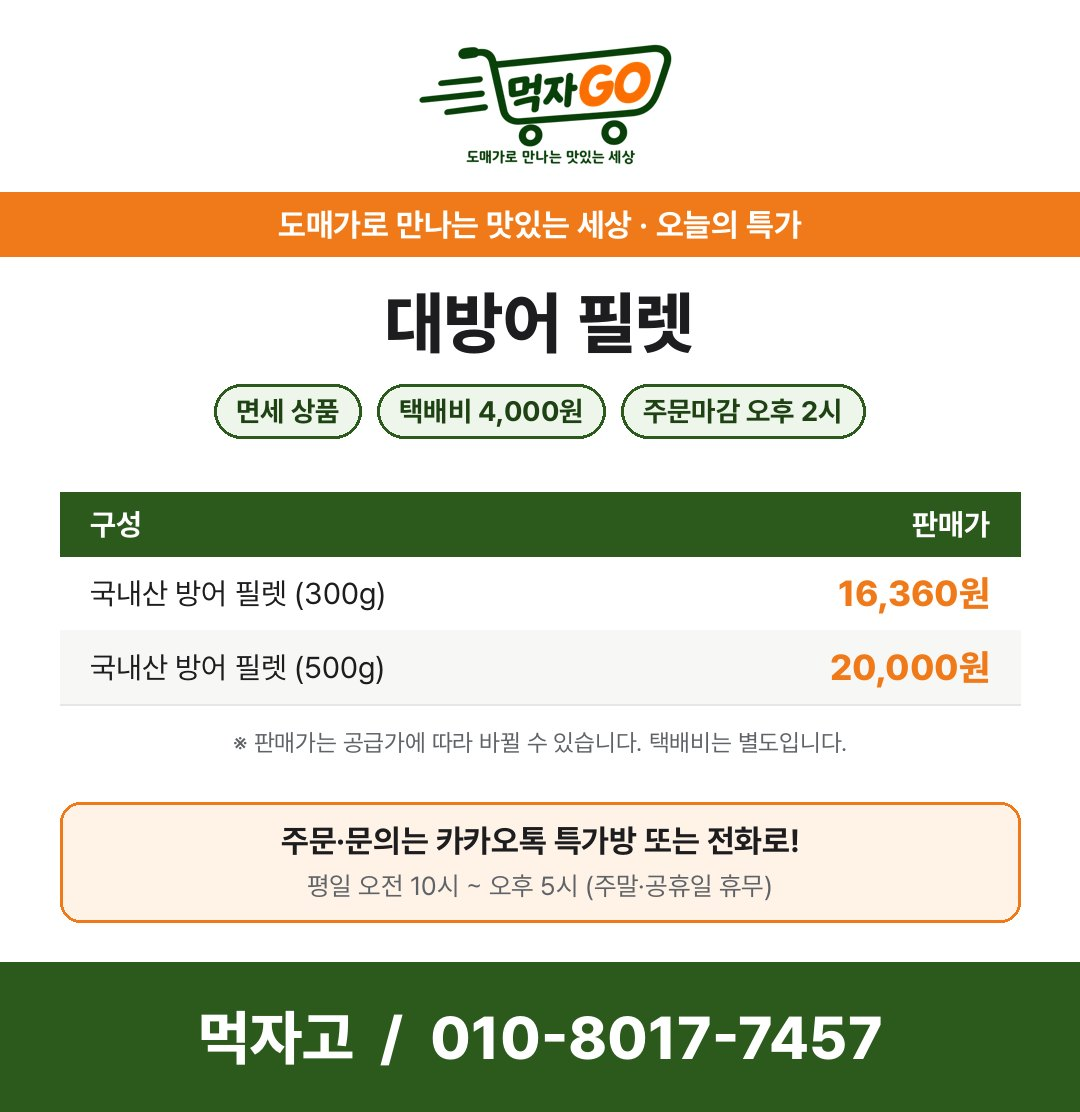
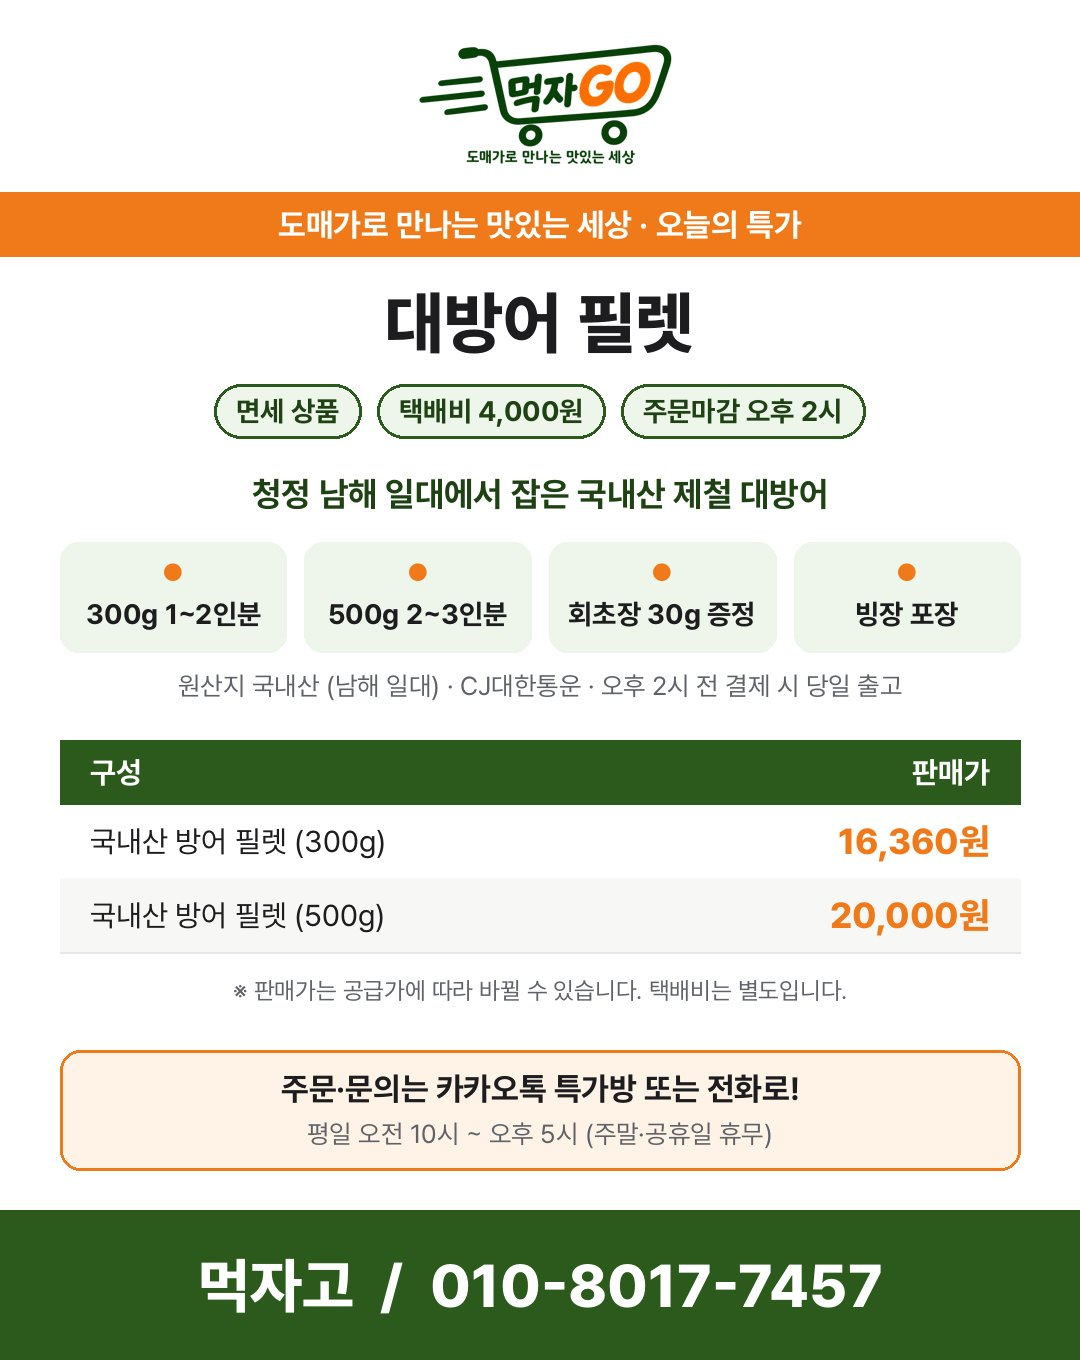
하모샤브샤브·대방어 필렛 사진·상세, 사진 도구가 하위 폴더(썸네일/상세) 규칙을 읽음
Claude-Session: https://claude.ai/code/session_01UCupzPUrEgZbBPue5zx9mb

diff --git a/js/products.js b/js/products.js
@@ -1,6 +1,6 @@
 /* 자동 생성 파일 — 손으로 고치지 마세요 (다시 만들면 지워집니다).
  * 원본: 늘푸른우리 제품 공급표_잇플로우.xlsx
- * 만든 때: 2026-11-26 04:16
+ * 만든 때: 2026-11-26 04:21
  * 다시 만들기: python tools/import_excel.py
  * 문구·후기·공지·분류는 js/content.js 에서 고칩니다. */
 window.PRODUCTS = [
@@ -486,9 +486,23 @@ window.PRODUCTS = [
   "price": 16360,
   "ship": 4000,
   "emoji": "🐟",
-  "images": [],
+  "images": [
+   "images/products/p17/1.jpg",
+   "images/products/p17/2.jpg"
+  ],
   "top": "images/products/p17/top.jpg",
-  "detail": [],
+  "detail": [
+   "images/products/p17/detail-1.jpg",
+   "images/products/p17/detail-2.jpg",
+   "images/products/p17/detail-3.jpg",
+   "images/products/p17/detail-4.jpg",
+   "images/products/p17/detail-5.jpg",
+   "images/products/p17/detail-6.jpg",
+   "images/products/p17/detail-7.jpg",
+   "images/products/p17/detail-8.jpg",
+   "images/products/p17/detail-9.jpg",
+   "images/products/p17/detail-10.jpg"
+  ],
   "options": [
    {
     "name": "국내산 방어 필렛",
@@ -504,7 +518,18 @@ window.PRODUCTS = [
     "ship": 4000,
     "tax": "면세"
    }
-  ]
+  ],
+  "info": {
+   "sub": "청정 남해 일대에서 잡은 국내산 제철 대방어",
+   "points": [
+    "300g 1~2인분",
+    "500g 2~3인분",
+    "회초장 30g 증정",
+    "빙장 포장"
+   ],
+   "origin": "국내산 (남해 일대)",
+   "courier": "CJ대한통운 · 오후 2시 전 결제 시 당일 출고"
+  }
  },
  {
   "id": 18,
@@ -516,9 +541,24 @@ window.PRODUCTS = [
   "price": 14710,
   "ship": 4000,
   "emoji": "🐟",
-  "images": [],
+  "images": [
+   "images/products/p18/1.jpg",
+   "images/products/p18/2.jpg",
+   "images/products/p18/3.jpg",
+   "images/products/p18/4.jpg",
+   "images/products/p18/5.jpg"
+  ],
   "top": "images/products/p18/top.jpg",
-  "detail": [],
+  "detail": [
+   "images/products/p18/detail-1.jpg",
+   "images/products/p18/detail-2.jpg",
+   "images/products/p18/detail-3.jpg",
+   "images/products/p18/detail-4.jpg",
+   "images/products/p18/detail-5.jpg",
+   "images/products/p18/detail-6.jpg",
+   "images/products/p18/detail-7.jpg",
+   "images/products/p18/detail-8.jpg"
+  ],
   "options": [
    {
     "name": "하모 샤브샤브세트",
@@ -527,7 +567,18 @@ window.PRODUCTS = [
     "ship": 4000,
     "tax": "면세"
    }
-  ]
+  ],
+  "info": {
+   "sub": "여수 국내산 하모(갯장어) 샤브샤브 세트",
+   "points": [
+    "손질 하모 300g",
+    "스틱육수 1봉",
+    "약재 1봉",
+    "참소스 2개"
+   ],
+   "origin": "국내산 (여수)",
+   "courier": "CJ대한통운 · 5개까지 합배송"
+  }
  },
  {
   "id": 20,

diff --git a/tools/import_photos.py b/tools/import_photos.py
@@ -45,32 +45,72 @@ def _tall(f: Path) -> bool:
     return h > w * 4
 
 
-def classify(files):
-    main, detail, kakao, skip = [], [], [], []
+NUMBERED = re.compile(r"\d+(\s*\(\d+\))?")   # 7.jpg, 윈도 복사본 7 (1).jpg
+THUMB_DIR = ("썸네일", "대표")
+DETAIL_DIR = ("상세",)
+
+
+def _num(stem: str) -> float:
+    n = re.findall(r"\d+", stem)
+    return int(n[0]) + (int(n[1]) / 100 if len(n) > 1 else 0)
+
+
+def _piece_key(f: Path):
+    """상세 조각 순서: 이름 속 마지막 번호순, 번호 없는 그림은 맨 뒤."""
+    n = re.findall(r"\d+", f.stem.replace("860x1100", ""))
+    return (0, int(n[-1])) if n else (1, f.stem)
+
+
+def classify(files, root: Path | None = None):
+    """폴더 규칙 (하위 폴더까지 본다):
+      - 이름에 「썸네일」·「대표」가 든 폴더  -> 그 안 그림 = 대표사진
+      - 이름에 「상세」가 든 폴더            -> 그 안 그림 = 상세 조각 (번호순, 번호 없는 그림은 뒤)
+      - 썸네일 폴더가 따로 있으면, 맨 위 폴더의 숫자 그림은 상세 조각으로 본다 (예: 하모 1~8.png)
+      - 그 밖: 숫자 그림 = 대표사진, 아주 긴 그림 = 상세, 카톡·포스터 = 올리지 않음
+    """
+    main, detail, pieces, kakao, skip = [], [], [], [], []
+    dirs = lambda f: [x for x in (f.parent.relative_to(root).parts if root else ())]
+    has_thumb = any(any(k in d for k in THUMB_DIR for d in dirs(f)) for f in files)
     for f in files:
-        s = f.stem
+        s, ds = f.stem, dirs(f)
         if re.match(r"(?i)kakaotalk|카톡", s):
             kakao.append(f)
+        elif any(k in d for k in DETAIL_DIR for d in ds):
+            pieces.append(f)
+        elif any(k in d for k in THUMB_DIR for d in ds):
+            main.append((-1 if s.startswith("대표") else (_num(s) if NUMBERED.fullmatch(s) else 999), f))
         elif _tall(f):  # 이름에 「상세」가 있어도 포스터(세로 2배쯤)는 상세가 아님
             detail.append(f)
-        elif s.startswith("대표"):
-            main.insert(0, (-1, f))
-        elif re.fullmatch(r"\d+(\s*\(\d+\))?", s):  # 7.jpg, 윈도 복사본 7 (1).jpg 도 숫자 사진
-            n = re.findall(r"\d+", s)
-            main.append((int(n[0]) + (int(n[1]) / 100 if len(n) > 1 else 0), f))
+        elif ds:  # 규칙 밖 하위 폴더의 그림 (예: 카톡 사진 모음) -> 올리지 않음
+            kakao.append(f)
+        elif s.startswith("대표") and not has_thumb:
+            main.append((-1, f))
+        elif NUMBERED.fullmatch(s):
+            (pieces.append(f) if has_thumb else main.append((_num(s), f)))
         else:
             kakao.append(f)  # 숫자·상세가 아닌 포스터·광고 그림 = 홍보이미지로 보고 올리지 않음
     main.sort(key=lambda x: x[0])
     nat = lambda f: [int(x) if x.isdigit() else x for x in re.split(r"(\d+)", f.stem)]
-    return [f for _, f in main], sorted(detail, key=nat), kakao, skip
+    return [f for _, f in main], sorted(detail, key=nat) + sorted(pieces, key=_piece_key), kakao, skip
+
+
+def unwrap(src: Path) -> Path:
+    """압축을 풀면 폴더 하나로 감싸져 있는 경우가 많다 -> 그 안으로 들어간다."""
+    while True:
+        kids = [k for k in src.iterdir() if not k.name.startswith(".")]
+        if len(kids) == 1 and kids[0].is_dir():
+            src = kids[0]
+        else:
+            return src
 
 
 def main():
     if len(sys.argv) < 3:
         sys.exit(__doc__)
     src, pid = Path(sys.argv[1]), int(sys.argv[2])
-    files = [f for f in src.iterdir() if f.is_file() and f.suffix.lower() in EXT]
-    main_f, detail_f, kakao, skip = classify(files)
+    src = unwrap(src)
+    files = [f for f in src.rglob("*") if f.is_file() and f.suffix.lower() in EXT]
+    main_f, detail_f, kakao, skip = classify(files, src)
     out = ROOT / "images" / "products" / f"p{pid:02d}"
     out.mkdir(parents=True, exist_ok=True)
     for old in out.iterdir():

diff --git a/07_BOOK/RAW_HISTORY.md b/07_BOOK/RAW_HISTORY.md
@@ -8,18 +8,18 @@
 >
 > 다듬은 원고는 `BOOK_MANUSCRIPT.md` 로 간다. **RAW -> EDIT -> BOOK**
 
-마지막으로 뽑은 때: 2026-11-26 04:17
+마지막으로 뽑은 때: 2026-11-26 04:21
 
 ---
 
 ## 숫자 (실제 기록에서 셈)
 
-- 개발 기록: **5**
+- 개발 기록: **6**
 - 오류 기록: **2**
-- 시험 기록: **15**
+- 시험 기록: **16**
 - 결정 기록: **8**
 - 파이썬 파일: **6**
-- 줄 수: **1,398**
+- 줄 수: **1,438**
 
 ---
 
@@ -214,6 +214,44 @@ DECISION #007, #008
 ---
 
 
+## 제006회 · 2026-11-26 04:21
+
+### 무엇이 문제였나
+하모: 맨 위 1~8.png(860×1100 상세 조각) + 하모샤브샤브썸네일/1~5 + 포스터 + 카톡 폴더. 방어: 대방어 상세페이지/(조각 9 + 맛있게 즐기기) + 대방어 썸네일/2,4
+
+### 사용자가 지시한 것
+제철 수산물 zip 2개 (하모샤브샤브, 국내산 방어필렛) — 이번엔 하위 폴더 구조
+
+### 분석
+기존 규칙(숫자=대표)이면 하모 상세 조각 8장이 대표사진으로 잘못 들어감. 압축이 폴더 하나로 감싸져 와서 맨 위 판단도 틀어짐(처음 시험에서 하모 조각 8장이 전부 제외됨 — 확인 후 고침)
+
+### 실제로 한 일
+import_photos.py: 하위 폴더 탐색, 썸네일/대표 폴더=대표, 상세 폴더=조각, 썸네일 폴더 있으면 맨 위 숫자=조각, 감싼 폴더 자동 진입. 하모(포스터)·방어(상세 조각) 사실을 product_info 에 옮김
+
+### 건드린 파일
+tools/import_photos.py, tools/product_info.json, images/products/p17,p18/*, README.md
+
+### 일어난 오류
+(없음)
+
+### 진범
+(없음)
+
+### 고친 방법
+(없음)
+
+### 어떻게 쟀나
+T016
+
+### 결과
+사진 있는 상품 13/51
+
+### 정한 것
+-
+
+---
+
+
 # 오류 역사
 
 > 오류 -> 원인 -> 고침 -> 재현 -> 회귀. **실패를 지우지 않는다.**
@@ -361,5 +399,6 @@ DECISION #007, #008
 | T013 | 2026-11-26 | 홍보이미지 미게시 | images/products 에 KakaoTalk·포스터 파일 있는지 + 민감자료 걸쇠 | 0개 | 0개, 걸쇠 10/10 OK | 통과 |
 | T014 | 2026-11-26 | p26 하프절단 간장게장 사진 | zip 3개 합쳐 import_photos → Playwright 390·1280 | 대표 12장(7 (1)·8 (1) 포함, 숫자순), 상세 1장 조각, 넘침 0 | 대표 12장 순서 1-6,7(1),8,8(1),9,11,12 / 상세 11조각 / sw=화면폭 / 깨진 그림 0 / 최대 파일 311KB (원본 14MB) | 통과 |
 | T015 | 2026-11-26 | 제철 수산물 3상품 + 기존 9상품 회귀 | import_photos 다시 돌려 장수 비교, Playwright 11·12·15 × 390·1280 | 기존 9상품 장수 그대로, 새 상품 넘침·깨짐 0 | 9상품 장수 동일. p11 대표12/상세11, p15 대표5/상세12(+top), p12 사진 0(자리만). 6화면 sw=폭, 깨짐 0 | 통과 |
+| T016 | 2026-11-26 | 하위 폴더 규칙 + 회귀 | 분류 미리보기 후 import, 앞선 11상품 다시 import 해 장수 비교, Playwright 17·18·11·25 × 390·1280 | 하모 대표5/상세8, 방어 대표2/상세10(맛있게 즐기기 맨 뒤), 앞선 11상품 장수 그대로 | 그대로 나옴. 8화면 sw=폭, 깨짐 0, 걸쇠 10/10 | 통과 |
 
 ---

diff --git a/04_LOG/DEVELOPMENT_LOG.md b/04_LOG/DEVELOPMENT_LOG.md
@@ -210,3 +210,35 @@ DECISION #007, #008
 참조기 대표사진 여부 확인, 나머지 40상품
 
 ==========================================================
+
+==========================================================
+[DEVELOPMENT RECORD #006]
+
+DATE: 2026-11-26
+TIME: 04:21
+
+[USER] 사용자 지시
+제철 수산물 zip 2개 (하모샤브샤브, 국내산 방어필렛) — 이번엔 하위 폴더 구조
+
+[CONTEXT] 그때 상황
+하모: 맨 위 1~8.png(860×1100 상세 조각) + 하모샤브샤브썸네일/1~5 + 포스터 + 카톡 폴더. 방어: 대방어 상세페이지/(조각 9 + 맛있게 즐기기) + 대방어 썸네일/2,4
+
+[ANALYSIS] 분석
+기존 규칙(숫자=대표)이면 하모 상세 조각 8장이 대표사진으로 잘못 들어감. 압축이 폴더 하나로 감싸져 와서 맨 위 판단도 틀어짐(처음 시험에서 하모 조각 8장이 전부 제외됨 — 확인 후 고침)
+
+[EXECUTION] 실제 한 일
+import_photos.py: 하위 폴더 탐색, 썸네일/대표 폴더=대표, 상세 폴더=조각, 썸네일 폴더 있으면 맨 위 숫자=조각, 감싼 폴더 자동 진입. 하모(포스터)·방어(상세 조각) 사실을 product_info 에 옮김
+
+[FILES] 건드린 파일
+tools/import_photos.py, tools/product_info.json, images/products/p17,p18/*, README.md
+
+[TEST] 어떻게 쟀나
+T016
+
+[RESULT] 결과
+사진 있는 상품 13/51
+
+[NEXT] 다음
+하모 상세 3번 조각에 「우리농축산의 하모 샤브샤브」 문구(전화번호 없음) — 둘지 사용자 확인
+
+==========================================================

diff --git a/04_LOG/TEST_LOG.md b/04_LOG/TEST_LOG.md
@@ -19,3 +19,4 @@
 | T013 | 2026-11-26 | 홍보이미지 미게시 | images/products 에 KakaoTalk·포스터 파일 있는지 + 민감자료 걸쇠 | 0개 | 0개, 걸쇠 10/10 OK | 통과 |
 | T014 | 2026-11-26 | p26 하프절단 간장게장 사진 | zip 3개 합쳐 import_photos → Playwright 390·1280 | 대표 12장(7 (1)·8 (1) 포함, 숫자순), 상세 1장 조각, 넘침 0 | 대표 12장 순서 1-6,7(1),8,8(1),9,11,12 / 상세 11조각 / sw=화면폭 / 깨진 그림 0 / 최대 파일 311KB (원본 14MB) | 통과 |
 | T015 | 2026-11-26 | 제철 수산물 3상품 + 기존 9상품 회귀 | import_photos 다시 돌려 장수 비교, Playwright 11·12·15 × 390·1280 | 기존 9상품 장수 그대로, 새 상품 넘침·깨짐 0 | 9상품 장수 동일. p11 대표12/상세11, p15 대표5/상세12(+top), p12 사진 0(자리만). 6화면 sw=폭, 깨짐 0 | 통과 |
+| T016 | 2026-11-26 | 하위 폴더 규칙 + 회귀 | 분류 미리보기 후 import, 앞선 11상품 다시 import 해 장수 비교, Playwright 17·18·11·25 × 390·1280 | 하모 대표5/상세8, 방어 대표2/상세10(맛있게 즐기기 맨 뒤), 앞선 11상품 장수 그대로 | 그대로 나옴. 8화면 sw=폭, 깨짐 0, 걸쇠 10/10 | 통과 |

diff --git a/04_LOG/CHECKPOINT.md b/04_LOG/CHECKPOINT.md
@@ -2,13 +2,13 @@
 
 > 작업을 다시 시작할 때 **이것부터** 본다.
 
-- 때: 2026-11-26 04:17
+- 때: 2026-11-26 04:21
 - 자리: `/home/user/kimjihyun06-homepage`
 - 판본: 0.1.0
 - 돌고 있는 것: 없음
 
 ## 지금 목표
-사진 받는 대로 배치 중 (11/51)
+사진 받는 대로 배치 중 (13/51)
 
 ## 끝난 것
 - 홈페이지 7쪽 + 협업체계 (#001)
@@ -27,11 +27,11 @@
 없음
 
 ## 마지막 시험
-T001~T015 통과
+T001~T016 통과
 
 ## 승인 기다리는 것
-- 홍게 5kg 상세페이지도 붙일지
-- 참조기 카톡 사진(꾸밈 없는 실물 사진 4장)을 대표사진으로 쓸지
+- 하모 상세 3번 조각의 「우리농축산의」 문구를 둘지
+- 홍게 5kg 상세페이지도 붙일지, 참조기 카톡 실물사진을 대표로 쓸지
 - 축산 칸을 김치·게장반찬으로 바꾼 것 확인
 - main 에 올리기(=배포)
 

diff --git a/04_LOG/PROJECT_STATE.md b/04_LOG/PROJECT_STATE.md
@@ -4,11 +4,11 @@
 
 | | |
 |---|---|
-| Last Updated | 2026-11-26 04:17 |
+| Last Updated | 2026-11-26 04:21 |
 | Version | 0.1.0 |
 
 ## 지금 하는 일
-사진 받는 대로 배치 중 (11/51)
+사진 받는 대로 배치 중 (13/51)
 
 ## 끝난 일
 - 홈페이지 7쪽 + 협업체계 (#001)
@@ -27,11 +27,11 @@
 없음
 
 ## 마지막 시험
-T001~T015 통과
+T001~T016 통과
 
 ## 승인 기다리는 것
-- 홍게 5kg 상세페이지도 붙일지
-- 참조기 카톡 사진(꾸밈 없는 실물 사진 4장)을 대표사진으로 쓸지
+- 하모 상세 3번 조각의 「우리농축산의」 문구를 둘지
+- 홍게 5kg 상세페이지도 붙일지, 참조기 카톡 실물사진을 대표로 쓸지
 - 축산 칸을 김치·게장반찬으로 바꾼 것 확인
 - main 에 올리기(=배포)
 
